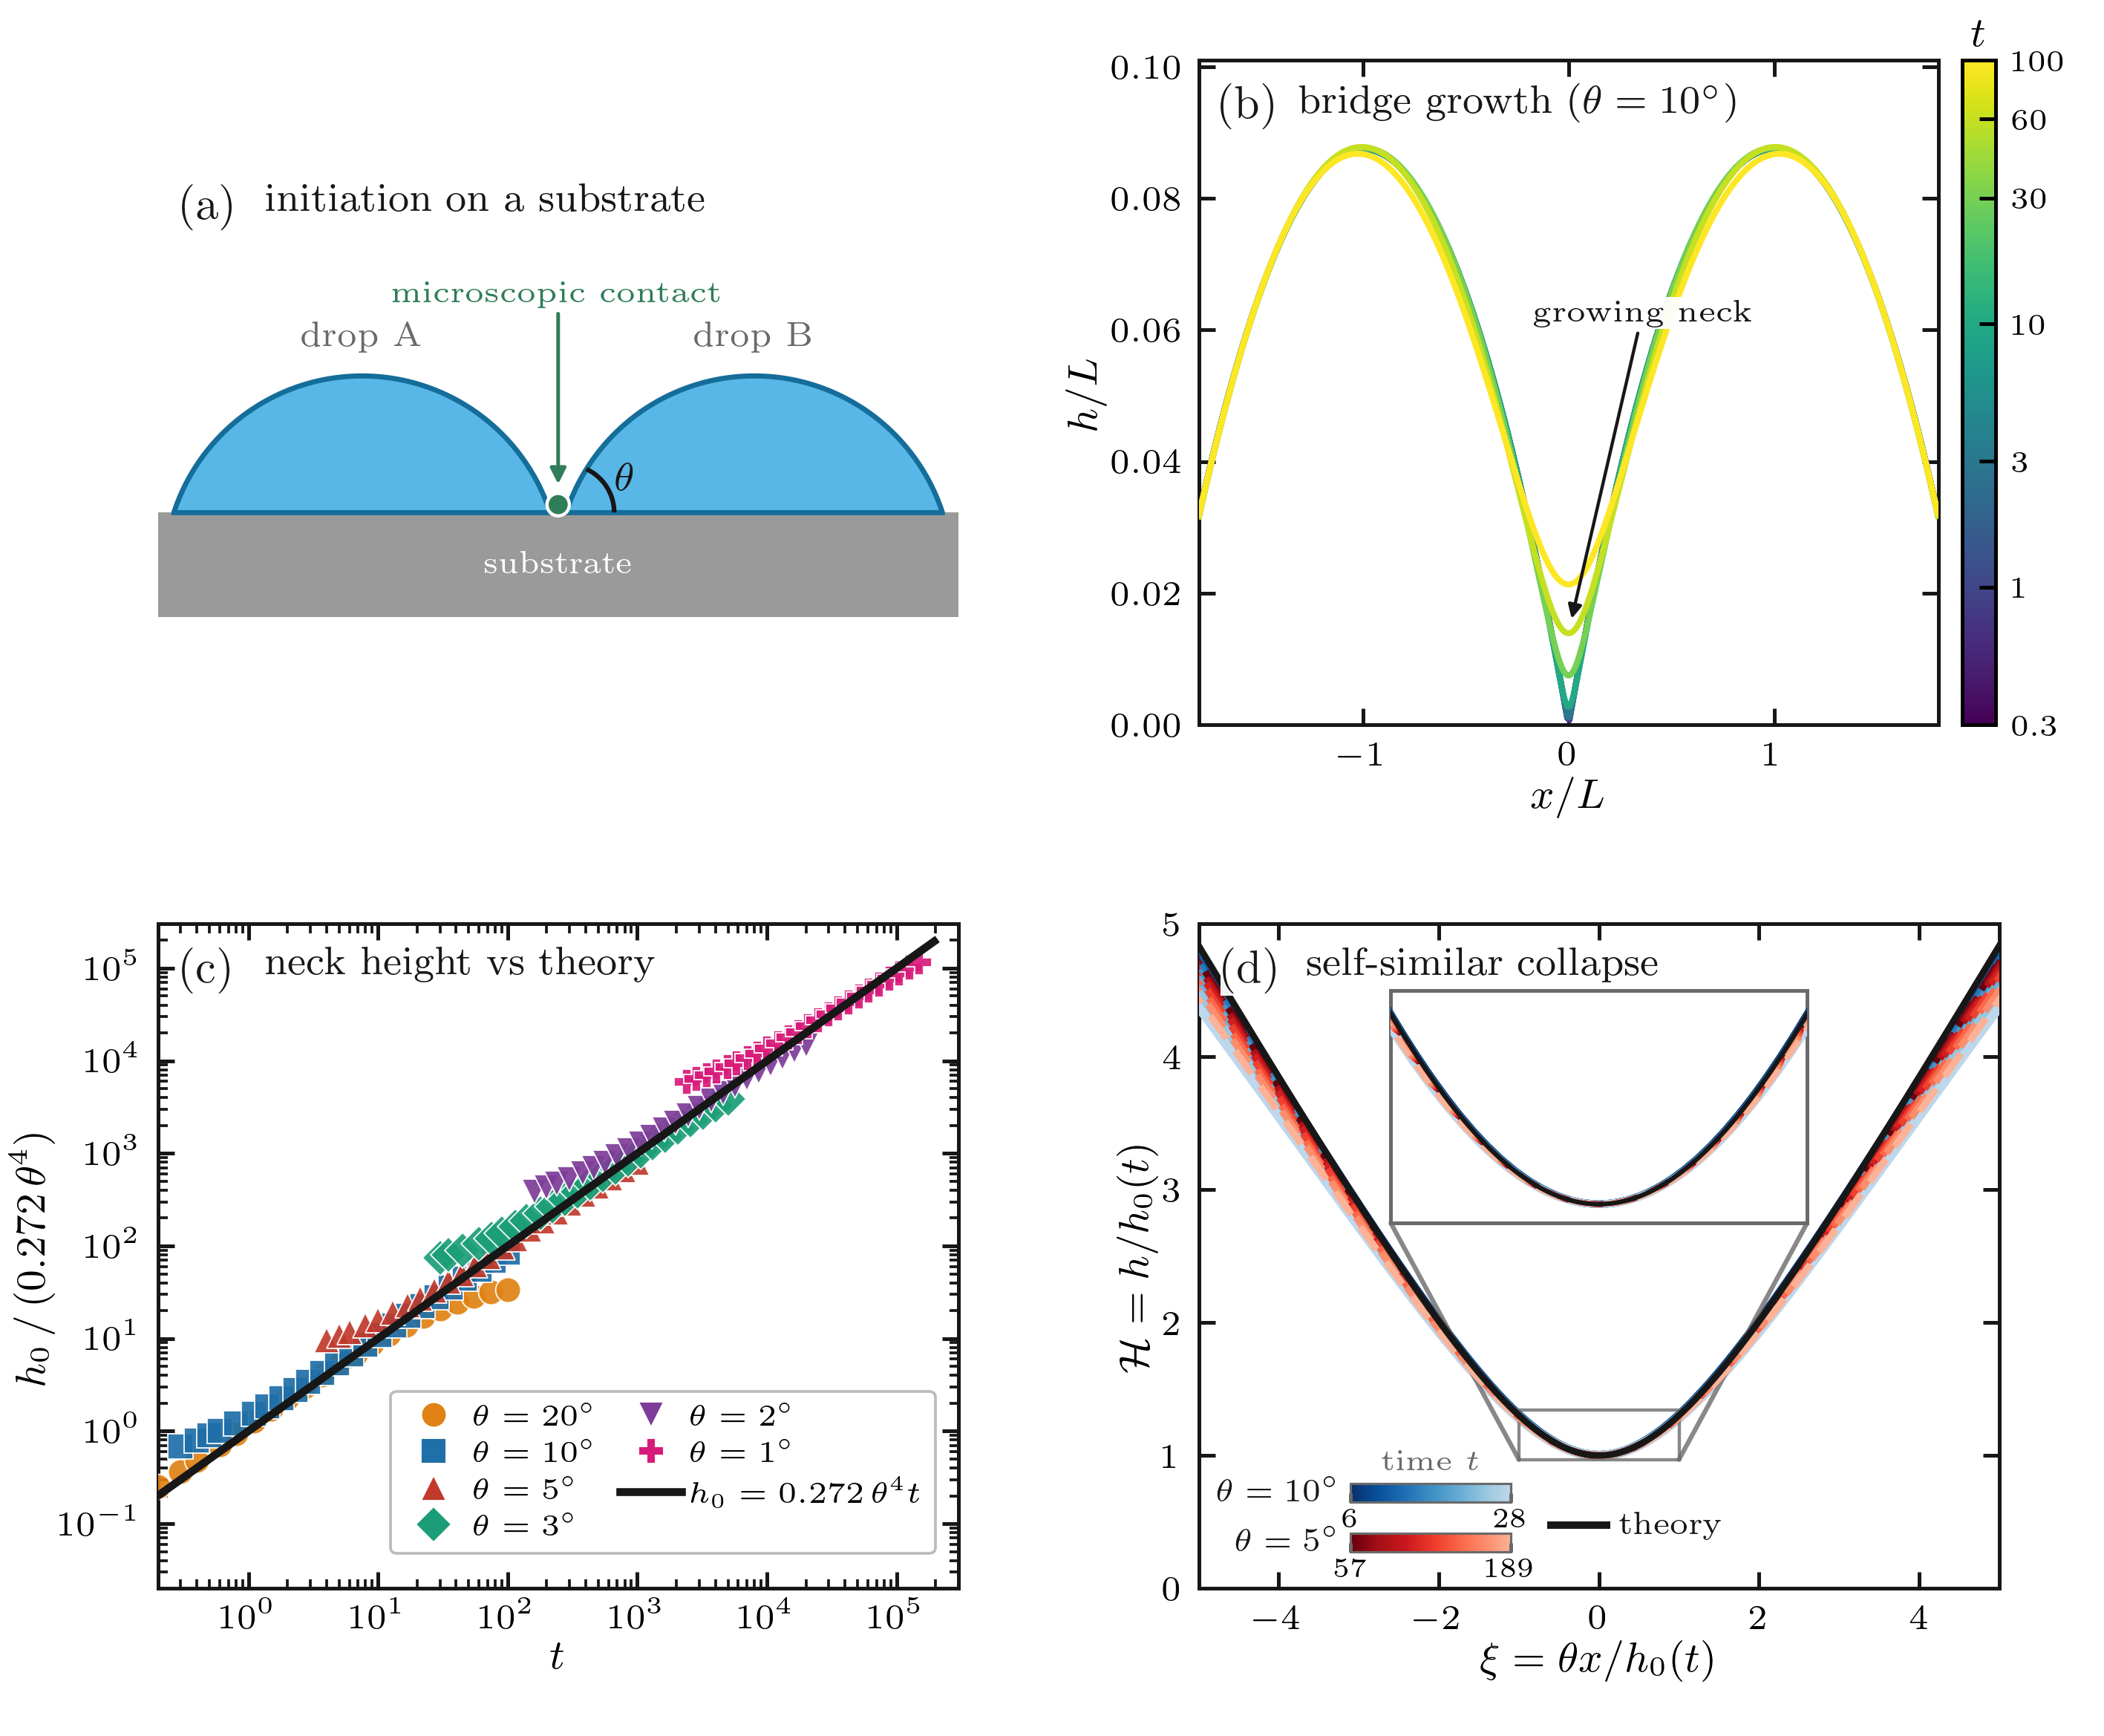
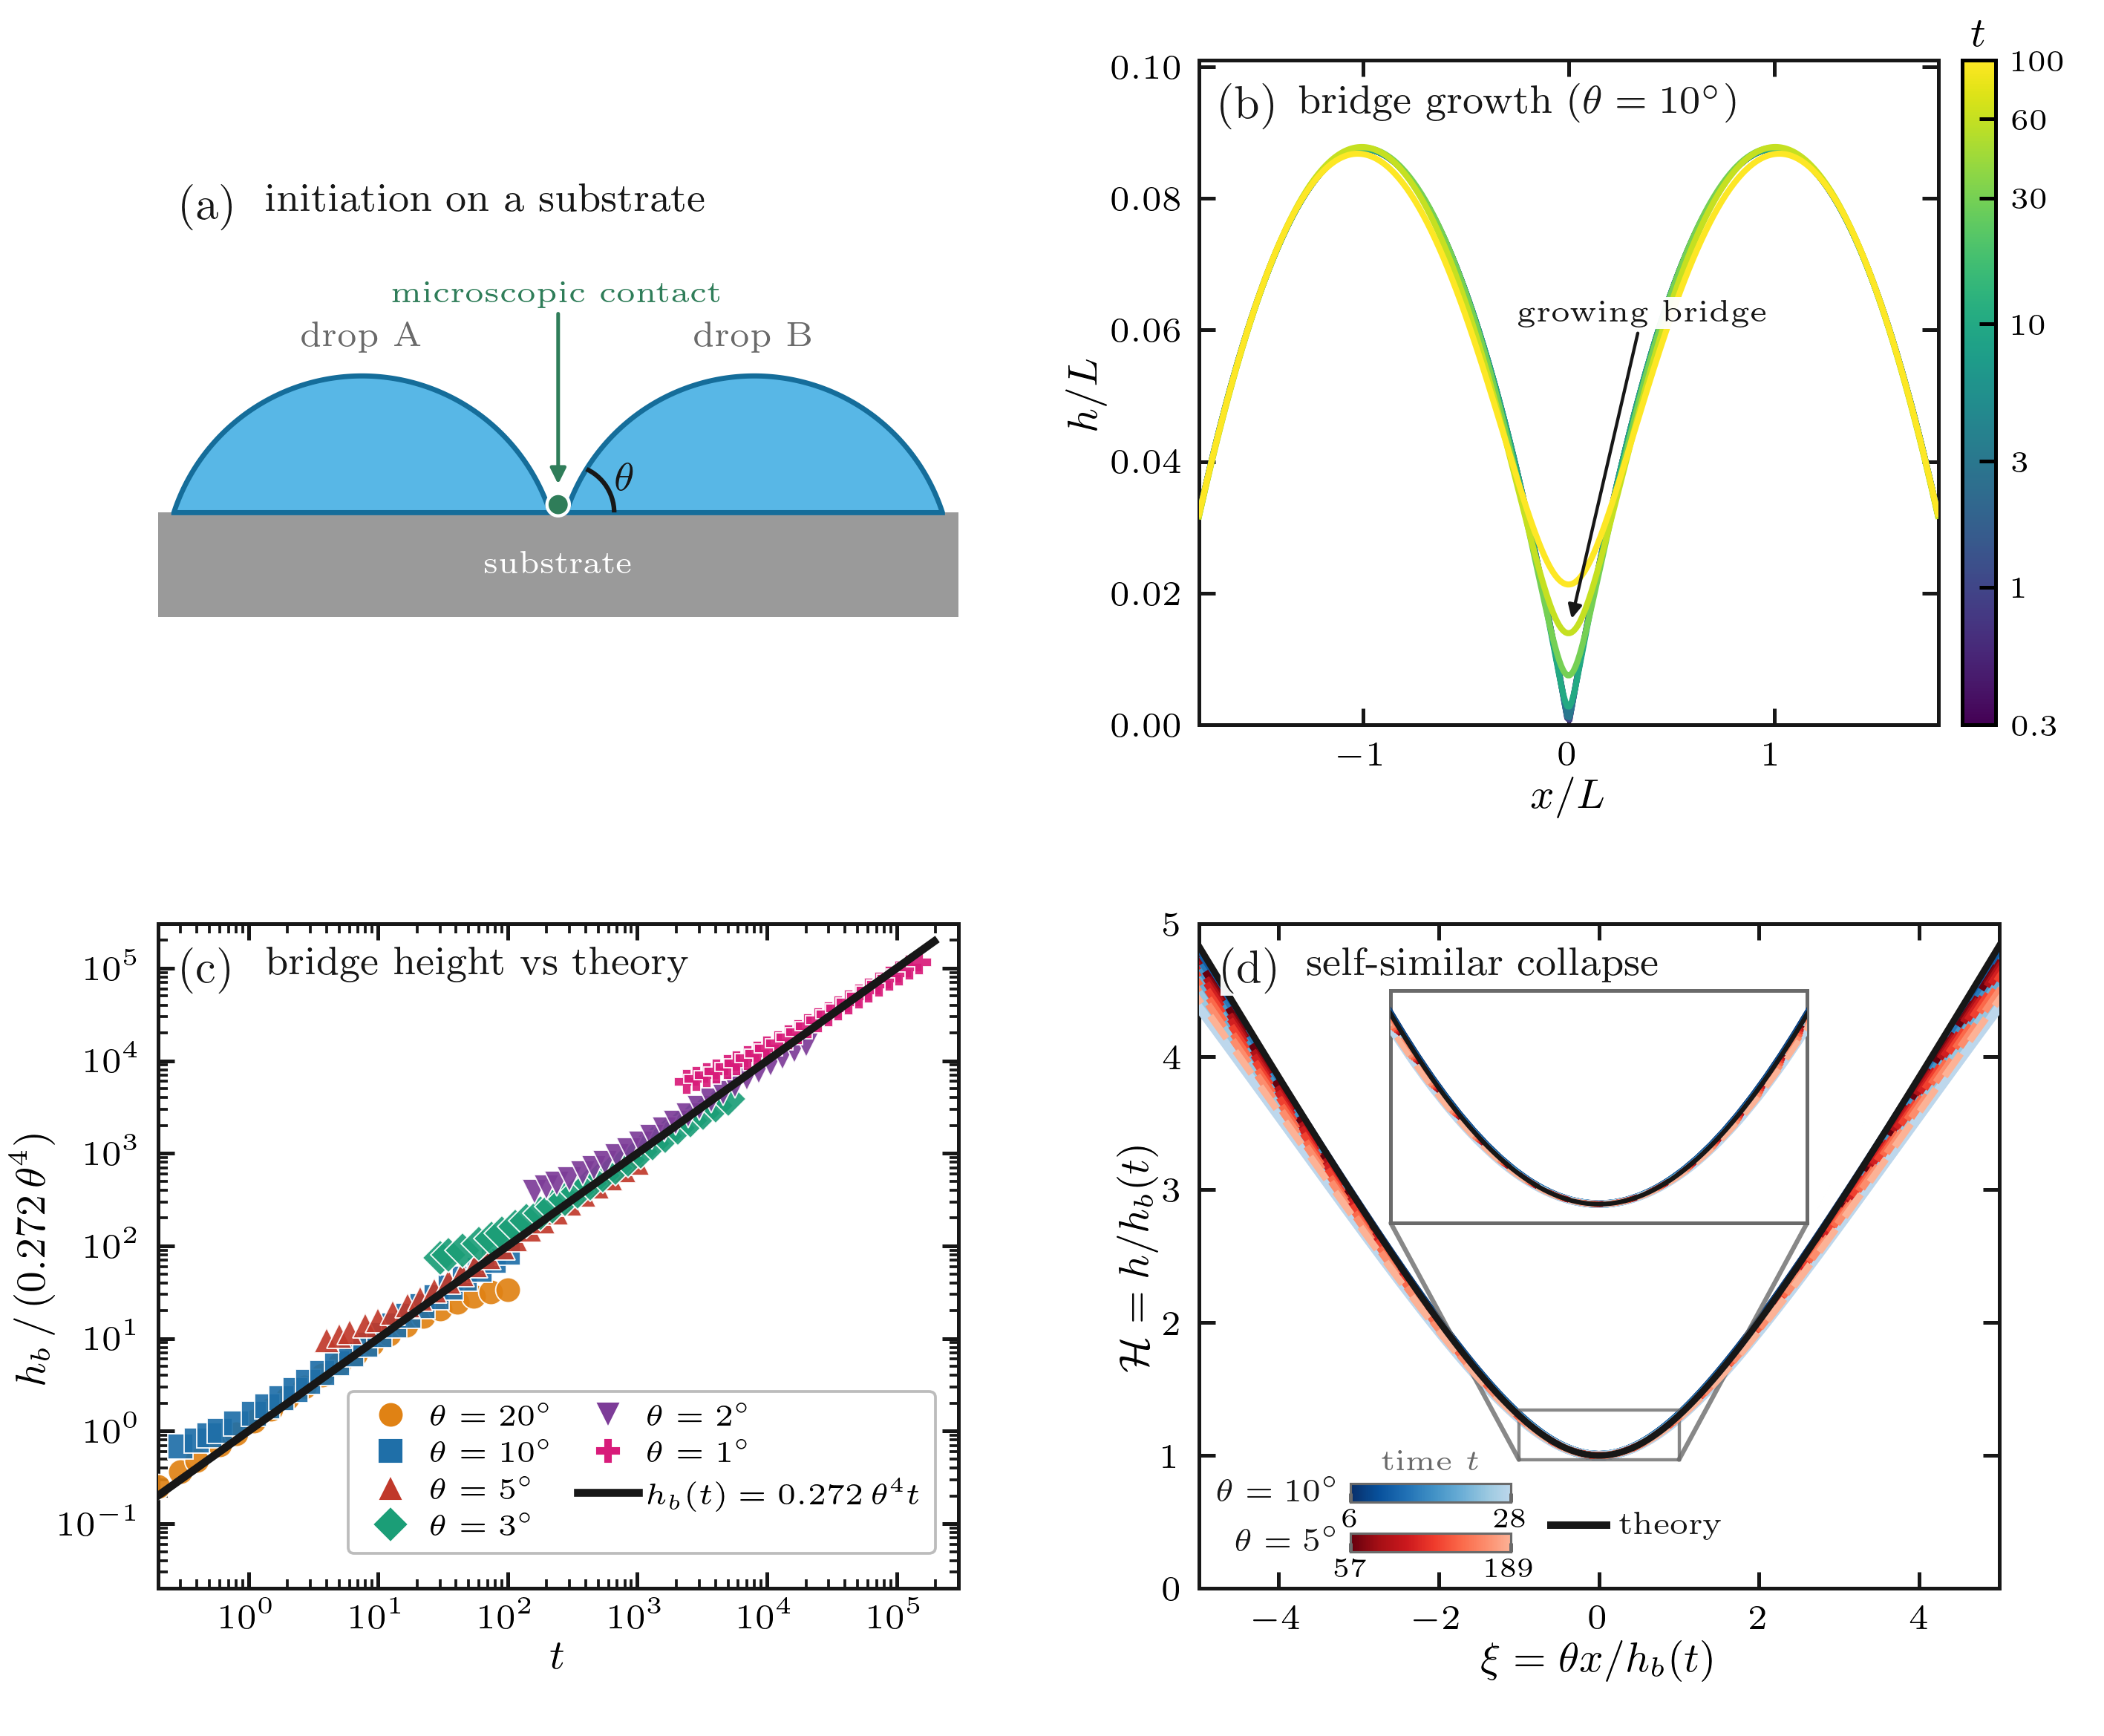
Rename coalescence bridge height
Use h_b for the growing coalescence bridge height in Figure 5 so it no longer collides with the pinch-off h_0 notation. Regenerate the PDF and PNG exports from the figure source.

diff --git a/fig5_coalescence_src/make_fig5_coalescence.py b/fig5_coalescence_src/make_fig5_coalescence.py
@@ -4,9 +4,9 @@
 Panels:
   (a) initiation: two spherical caps near contact on a substrate (schematic).
   (b) bridge time history h(x,t) from the clean lubrication simulation.
-  (c) neck height collapsed by the similarity law: h0/(0.272 theta^4) vs t for
-      several contact angles falls on the single line h0 = 0.272 theta^4 t.
-  (d) self-similar collapse h/h0(t) vs theta x/h0(t): snapshots from several
+  (c) bridge height collapsed by the similarity law: hb/(0.272 theta^4) vs t
+      for several contact angles falls on the single line hb = 0.272 theta^4 t.
+  (d) self-similar collapse h/hb(t) vs theta x/hb(t): snapshots from several
       contact angles fall on one master shape -> loss of memory / universality.
 
 The hydrodynamics are the clean (surfactant-free, beta=Pe=0) limit of the
@@ -212,7 +212,7 @@ def panel_history(ax: plt.Axes, d) -> None:
     cb.ax.tick_params(labelsize=6.5)
     cb.ax.minorticks_off()
     cb.ax.set_title(r"$t$", fontsize=9, pad=3)
-    ax.annotate("growing neck", xy=(0.0, 0.16 * hmax), xytext=(0.60, 0.62),
+    ax.annotate("growing bridge", xy=(0.0, 0.16 * hmax), xytext=(0.60, 0.62),
                 textcoords="axes fraction", ha="center", va="center",
                 fontsize=6.8, color=INK,
                 arrowprops=dict(arrowstyle="-|>", color=INK, lw=0.7,
@@ -294,8 +294,8 @@ def panel_collapse(ax: plt.Axes, bundles: dict) -> None:
     _draw_collapse(ax, bundles, lw_scale=1.0, theory_lw=1.4)
     ax.set_xlim(-5, 5)
     ax.set_ylim(0, 5)
-    ax.set_xlabel(r"$\xi = \theta x / h_0(t)$", fontsize=9, labelpad=1)
-    ax.set_ylabel(r"$\mathcal{H} = h / h_0(t)$", fontsize=9, labelpad=1)
+    ax.set_xlabel(r"$\xi = \theta x / h_b(t)$", fontsize=9, labelpad=1)
+    ax.set_ylabel(r"$\mathcal{H} = h / h_b(t)$", fontsize=9, labelpad=1)
     _time_gradient_legend(ax, bundles)
 
     # inset: strong zoom on the neck |xi| < 1, enlarged to fill the empty upper
@@ -314,7 +314,7 @@ def panel_collapse(ax: plt.Axes, bundles: dict) -> None:
 
 
 # --------------------------------------------------------------------------- #
-# Panel (c): neck height compared with the similarity law
+# Panel (c): bridge height compared with the similarity law
 # --------------------------------------------------------------------------- #
 def _subsample_log(t, y, n=30):
     m = t > 0
@@ -328,7 +328,7 @@ def _subsample_log(t, y, n=30):
 
 def panel_neck(ax: plt.Axes, bundles: dict) -> None:
     style_data_axis(ax)
-    panel_label(ax, "(c)", "neck height vs theory")
+    panel_label(ax, "(c)", "bridge height vs theory")
     ax.set_xscale("log")
     ax.set_yscale("log")
 
@@ -355,12 +355,12 @@ def panel_neck(ax: plt.Axes, bundles: dict) -> None:
     tref = np.logspace(np.log10(0.2), np.log10(tmax * 1.3), 100)
     ax.plot(tref, tref, color=THEORY, lw=1.7, zorder=6)   # prediction on top
     handles.append(plt.Line2D([], [], color=THEORY, lw=1.7,
-                              label=r"$h_0=0.272\,\theta^4 t$"))
+                              label=r"$h_b(t)=0.272\,\theta^4 t$"))
 
     ax.set_xlim(0.2, tmax * 2)
     ax.set_ylim(0.02, tmax * 2)
     ax.set_xlabel(r"$t$", fontsize=9, labelpad=1)
-    ax.set_ylabel(r"$h_0\,/\,(0.272\,\theta^4)$", fontsize=9, labelpad=1)
+    ax.set_ylabel(r"$h_b\,/\,(0.272\,\theta^4)$", fontsize=9, labelpad=1)
     leg = ax.legend(handles=handles, loc="lower right", fontsize=6.6,
                     frameon=True, handletextpad=0.3, borderpad=0.4,
                     labelspacing=0.3, columnspacing=0.8, ncol=2,

diff --git a/fig5_coalescence_src/similarity_solution.py b/fig5_coalescence_src/similarity_solution.py
@@ -2,18 +2,18 @@
 r"""Self-similar master curve for clean viscous sessile-drop coalescence.
 
 In the lubrication (thin-film) limit, two clean sessile drops merging on a
-substrate grow a bridge whose neck height obeys the viscous-coalescence law
+substrate grow a bridge whose height obeys the viscous-coalescence law
 of Hernandez-Sanchez et al. (PRL 2012),
 
-    h_0(t) = c theta^4 t,   c = 0.272 ,
+    h_b(t) = c theta^4 t,   c = 0.272 ,
 
 and whose whole profile collapses onto a single self-similar master shape when
-written in the measured-neck-height variables
+written in the measured-bridge-height variables
 
-    H(xi) = h / h_0(t),     xi = theta x / h_0(t) .
+    H(xi) = h / h_b(t),     xi = theta x / h_b(t) .
 
-Substituting  h = h_0(t) F(eta),  eta = x / w(t),  with h_0 = c theta^4 t and
-w = h_0/theta = c theta^3 t  into the clean lubrication equation
+Substituting  h = h_b(t) F(eta),  eta = x / w(t),  with h_b = c theta^4 t and
+w = h_b/theta = c theta^3 t  into the clean lubrication equation
 
     h_t = -(h^3 h_xxx / 3)_x          (sigma = 1, no slip, no Marangoni)
 
@@ -49,7 +49,7 @@ import numpy as np
 from scipy.integrate import solve_ivp
 from scipy.optimize import brentq
 
-C_STAR = 0.272      # viscous-coalescence prefactor h0 = c theta^4 t
+C_STAR = 0.272      # viscous-coalescence prefactor hb = c theta^4 t
 ETA_MAX = 10.0      # integration domain for the shoot (asymptotic wedge)
 
 

diff --git a/fig5_coalescence_src/README.md b/fig5_coalescence_src/README.md
@@ -7,7 +7,7 @@ demonstrates self-similarity / loss of memory.
 
 The hydrodynamics are the **clean** (surfactant-free, `beta = Pe = 0`) limit of
 the sessile-drop lubrication model of Talukdar et al. The early-time viscous
-neck law and the constant `0.272` are from Hernández-Sánchez et al., *Symmetric
+bridge-height law and the constant `0.272` are from Hernández-Sánchez et al., *Symmetric
 and asymmetric coalescence of drops on a substrate*, Phys. Rev. Lett. **109**,
 184502 (2012), [arXiv:1207.2635](https://arxiv.org/abs/1207.2635).
 
@@ -15,11 +15,11 @@ and asymmetric coalescence of drops on a substrate*, Phys. Rev. Lett. **109**,
 
 - **(a)** schematic: two spherical caps meeting at a microscopic contact on a substrate.
 - **(b)** simulated free-surface profiles `h(x,t)` for `theta = 10°` (bridge growth).
-- **(c)** neck height compensated by `0.272 theta^4` collapses six contact angles
-  (`theta = 1°…20°`) onto the universal line `h0 = 0.272 theta^4 t`.
-- **(d)** self-similar collapse `H = h/h0(t)` vs `xi = theta x / h0(t)` for
+- **(c)** bridge height compensated by `0.272 theta^4` collapses six contact angles
+  (`theta = 1°…20°`) onto the universal line `hb = 0.272 theta^4 t`.
+- **(d)** self-similar collapse `H = h/hb(t)` vs `xi = theta x / hb(t)` for
   `theta = 5°, 10°`, overlaid with the **theory** master curve (shooting solution
-  of the similarity ODE). Normalising by the *measured* neck height `h0(t)`
+  of the similarity ODE). Normalising by the *measured* bridge height `hb(t)`
   removes the early-time amplitude drift and gives a tight collapse.
 
 ## Pipeline
@@ -36,9 +36,9 @@ similarity_solution.py ->  similarity_master.csv ---/   (theory curve for panel 
    (columns `x, h, p`).
 2. **Reduce** each run with `reduce_fig5.py <run_dir> <theta_deg> <out.npz>` to a
    compact bundle (`fig5_data_theta<deg>.npz`): bridge-history profiles, the
-   self-similar-window snapshots in `(xi, H)`, and the full neck history
-   `h0(t)`. The collapse window is the early-time self-similar band
-   `h0/(theta^4 t) in [0.27, 0.30]`. Bundles live in `../fig5_coalescence_data/`.
+   self-similar-window snapshots in `(xi, H)`, and the full bridge-height history
+   `hb(t)`. The collapse window is the early-time self-similar band
+   `hb/(theta^4 t) in [0.27, 0.30]`. Bundles live in `../fig5_coalescence_data/`.
 3. **Theory** master curve: `similarity_solution.py` solves the similarity ODE by
    shooting and writes `similarity_master.csv` (used by panel d).
 4. **Figure**: `make_fig5_coalescence.py` reads the bundles + master curve and
@@ -46,7 +46,7 @@ similarity_solution.py ->  similarity_master.csv ---/   (theory curve for panel 
 
 ## Similarity ODE (panel d theory)
 
-With `h = h0(t) F(eta)`, `eta = x/w`, `h0 = c theta^4 t`, `w = h0/theta`, the clean
+With `h = hb(t) F(eta)`, `eta = x/w`, `hb = c theta^4 t`, `w = hb/theta`, the clean
 lubrication equation `h_t = -(h^3 h_xxx / 3)_x` reduces to the autonomous ODE
 
 ```
@@ -75,7 +75,7 @@ Small angles need much longer end-times: the self-similar onset scales as
 `hp/(0.272 theta^4)` (≈ 0.025 for 20° but ≈ 4000 for 1°). A grid-refinement
 check (`theta = 10°`, `N = 5000 -> 8000`, refine `6 -> 9`) showed the collapse is
 already mesh-converged; the residual wing spread in panel (c) is physical
-(self-similarity holds only for `xi << theta/h0`), not a resolution effect.
+(self-similarity holds only for `xi << theta/hb`), not a resolution effect.
 
 ## Reproduce
 